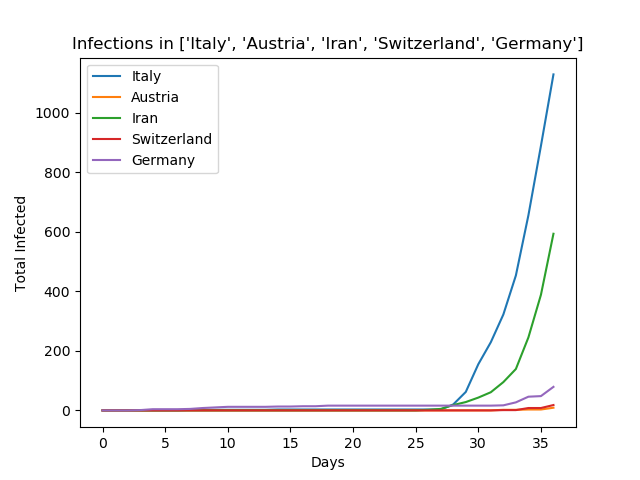
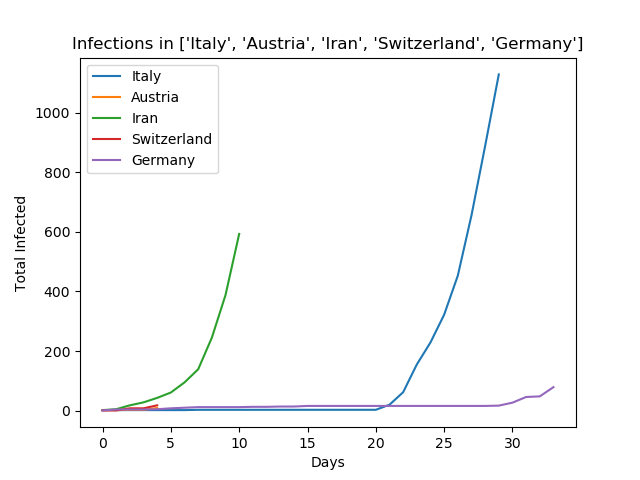
synchronising the data based on the first infected

diff --git a/visualise_covid_per_country.py b/visualise_covid_per_country.py
@@ -38,8 +38,9 @@ for country in countries:
             total_infected_state +=infected_state[day].values[0]
 
         infected.append(total_infected_state)
-
-    plt.plot(infected,label=country)
+    # find first non-zero infected date
+    ix = np.argmax(np.array(infected) > 0)
+    plt.plot(infected[ix:],label=country)
 
 plt.legend()
 plt.title('Infections in {}'.format(countries))
